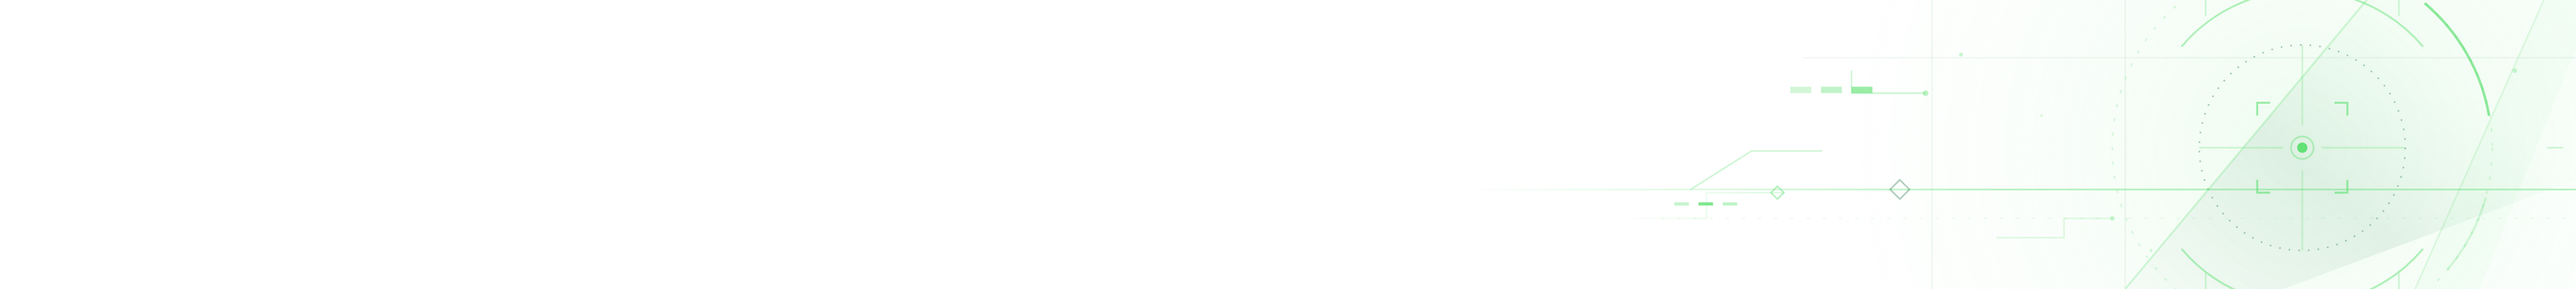
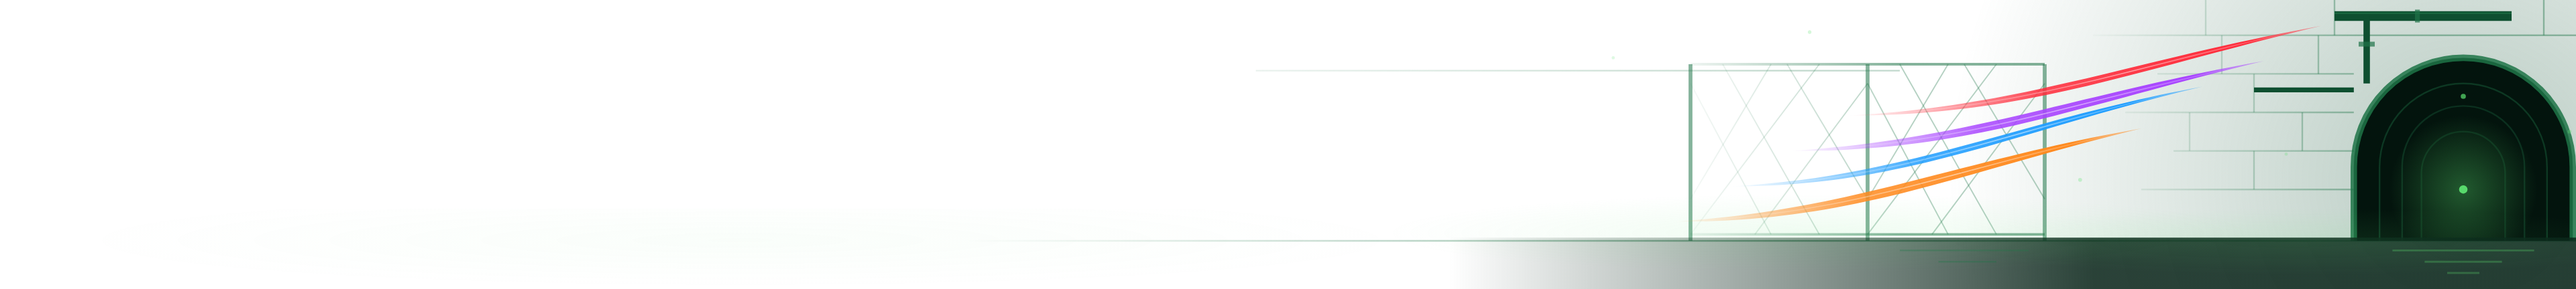
feat: add TMNT launcher header art

Changed region(s): [[0.4375, 0.0, 1.0, 1.0]]

diff --git a/assets/launcher/README.md b/assets/launcher/README.md
@@ -10,6 +10,32 @@ From the repository root on Windows, with Edge installed:
 ```powershell
 & 'C:\Program Files (x86)\Microsoft\Edge\Application\msedge.exe' `
   --headless=new --disable-gpu --hide-scrollbars --default-background-color=00000000 `
-  --window-size=3840,432 --screenshot=assets/launcher/header-art.png `
+  --window-size=3840,432 "--screenshot=$(Join-Path $PWD 'assets\launcher\header-art.png')" `
   "file:///$((Resolve-Path assets/launcher/header-art.svg).Path -replace '\\','/')"
 ```
+
+`--screenshot` needs an absolute path.
+
+## Palette
+
+Every colour is one line at the top of the SVG's `<style>`; change it there and regenerate.
+
+| Class | Colour | Use |
+| --- | --- | --- |
+| `.black` | `#03140D` | tunnel interior |
+| `.deep` | `#082318` | floor |
+| `.green` | `#0E4F30` | pipes, ambient light |
+| `.emerald` | `#1F7448` | tunnel rim, fence, brick lines |
+| `.glow` | `#5CE070` | launcher accent: small lights only |
+| `orange-stop` | `#FF8A1F` | streak 1 |
+| `blue-stop` | `#1E9DFF` | streak 2 |
+| `purple-stop` | `#A844FF` | streak 3 |
+| `red-stop` | `#FF2B3A` | streak 4 |
+
+The streaks run bottom to top as orange, blue, purple, red.
+
+## Layout
+
+The launcher anchors the image to the header's top, right and bottom and crops it on the left, so
+keep the left 55% almost empty for the title. The bottom 35% fades into the page, so anything that
+must stay visible belongs above `y=125`.
